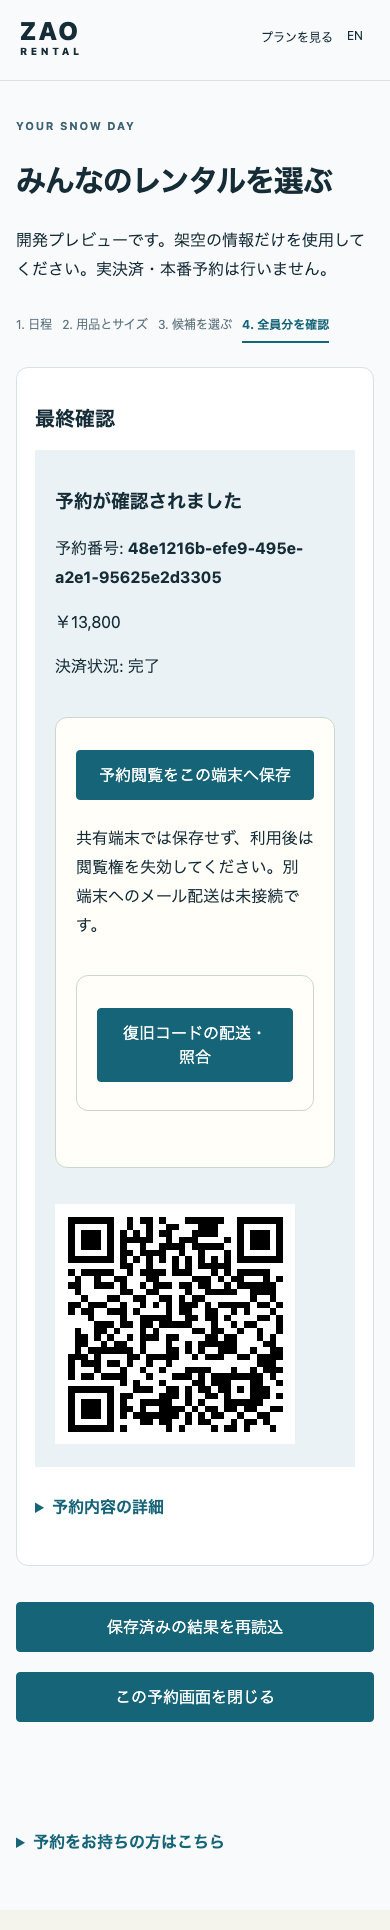
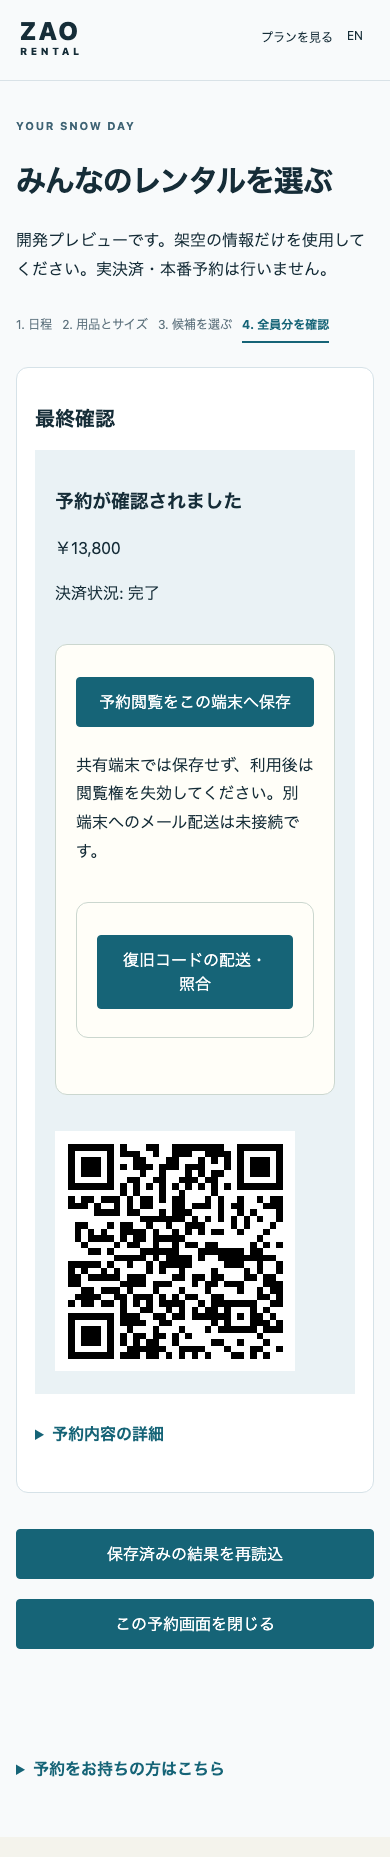
fix(guest-ui): correction batch for TD REQUEST_CHANGES on customer simplification
Addresses PR #26 comment 5746531522 (HIGH 1, MEDIUM 2, LOW 1) against e8241e4:

- UX3R-01 (HIGH): split the unsaved-input guard signal (unsavedInput, used by
  guardNav/beforeunload) from the visible-banner presentation state
  (showUnsavedHint), so entering data and advancing a wizard step no longer
  silently disables navigation/reload protection. Adds a regression test
  covering guarded nav right after a step transition and after backToStep(0).
- UX3R-02 (MEDIUM): move the full booking UUID out of the primary confirmed
  result and into the existing secondary review-details disclosure. UUID/QR
  semantics unchanged.
- UX4R-01 (MEDIUM): make the Regular/Premium comparison the first substantive
  content on /rental (compact hero, no mountain illustration on this route)
  and demote the equipment-category EXPLORE grid into a collapsed <details>.
- UX3R-03 (LOW): give /reservation the same locale-switch link and footer
  composition as the normal public shell.

No pricing/recommendation/inventory/HOLD/payment/auth/schema changes.

diff --git a/apps/web/src/components/GuestBooking.tsx b/apps/web/src/components/GuestBooking.tsx
@@ -111,7 +111,14 @@ export function GuestBooking({locale}:{locale:Locale}){const ja=locale==='ja',t=
  // server; the member data contract is unchanged.
  const [activePerson,setActivePerson]=useState(0);
  const activePersonIdx=Math.min(activePerson,input.members.length-1);
- const dirty=touched&&step<2&&JSON.stringify(input)!==(savedInputJson??JSON.stringify(blankInput()));
+ // UX3R-01: keep the authoritative "would a nav/close actually lose data" signal completely
+ // separate from step-touched presentation state. unsavedInput alone drives guardNav/beforeunload
+ // and must stay true across a step transition -- entering dates on step 0 and immediately
+ // advancing to step 1 without saving is still real unsaved input. touched (reset on every step
+ // change) only controls whether the visible banner is shown; it must never gate the actual
+ // protection below.
+ const unsavedInput=step<2&&JSON.stringify(input)!==(savedInputJson??JSON.stringify(blankInput()));
+ const showUnsavedHint=touched&&unsavedInput;
  // UIR-03 defense in depth: even if some other path ever let step 3 render with data that no
  // longer matches what the server actually holds for this draft, checkout must still refuse
  // to submit the old server contract as if it reflected newer, unsaved local choices.
@@ -197,15 +204,15 @@ export function GuestBooking({locale}:{locale:Locale}){const ja=locale==='ja',t=
  // mobile), so this is a best-effort browser-native prompt for a real tab close/reload, not
  // a substitute for the in-app link guard below, which is the actual mechanism for the
  // cases this app controls (locale switch, closing the booking context).
- useEffect(()=>{const onBeforeUnload=(e:BeforeUnloadEvent)=>{if(dirty){e.preventDefault();e.returnValue='';}};window.addEventListener('beforeunload',onBeforeUnload);return()=>window.removeEventListener('beforeunload',onBeforeUnload);},[dirty]);
- function guardNav(e:React.MouseEvent){if(dirty&&!window.confirm(t('保存されていない入力があります。移動すると内容が失われます。続けますか？','You have unsaved input. Leaving now will lose it. Continue?')))e.preventDefault();}
+ useEffect(()=>{const onBeforeUnload=(e:BeforeUnloadEvent)=>{if(unsavedInput){e.preventDefault();e.returnValue='';}};window.addEventListener('beforeunload',onBeforeUnload);return()=>window.removeEventListener('beforeunload',onBeforeUnload);},[unsavedInput]);
+ function guardNav(e:React.MouseEvent){if(unsavedInput&&!window.confirm(t('保存されていない入力があります。移動すると内容が失われます。続けますか？','You have unsaved input. Leaving now will lose it. Continue?')))e.preventDefault();}
  async function run(fn:()=>Promise<Draft>){if(inFlight.current)return;inFlight.current=true;setBusy(true);const n=++ticket.current;try{const d=await fn();if(alive.current&&n===ticket.current){open(d);setMessage('');}}catch(e){if(alive.current&&n===ticket.current){if((e as {status?:number}).status===401){setDraft(null);setInput(blankInput());setDirections({});clearStoredInput();setSavedInputJson(null);}setMessage((e as Error).message);}}finally{inFlight.current=false;if(alive.current)setBusy(false);}}
  function member(n:number,patch:Partial<Member>){editInput(i=>({...i,members:i.members.map((m,j)=>j===n?{...m,...patch}:m)}));}
  function sport(n:number,s:string){member(n,{sport:s,tier:s==='WEAR'?'STANDARD':'REGULAR',ski:s==='SKI'?{weightKg:60,ageAtStart:30,level:'BEGINNER'}:null,heightCm:s==='WEAR'?null:170,footCm:s==='WEAR'?null:25.5,poleSize:null,premiumModel:null,jacketSize:null,pantsSize:null,wearSport:s==='WEAR'?'SKI':null});}
  const sizes=(m:Member,f:string)=>options.sizes.filter(v=>v.family===f&&v.age===(m.adultAtStart?'ADULT':'KIDS')&&v.tier===(f.startsWith('WEAR_')?'STANDARD':m.tier));
  const money=(n:unknown)=>typeof n==='number'?new Intl.NumberFormat(locale==='ja'?'ja-JP':'en-JP',{style:'currency',currency:'JPY',maximumFractionDigits:0}).format(n):'—';const errorText=(code:string)=>{const c=GUEST_ERROR_COPY[code];if(c)return ja?c.ja:c.en;return ja?'処理でエラーが発生しました。もう一度お試しください。':'Something went wrong. Please try again.';};const bookingStateText=(s:string)=>{const c=BOOKING_STATE_COPY[s];return c?(ja?c.ja:c.en):s;};const paymentStateText=(s:string)=>{const c=PAYMENT_STATE_COPY[s];return c?(ja?c.ja:c.en):s;};const jstTime=(iso:string)=>{const d=new Date(iso);if(Number.isNaN(d.getTime()))return iso;return new Intl.DateTimeFormat(locale==='ja'?'ja-JP':'en-JP',{timeZone:'Asia/Tokyo',dateStyle:'medium',timeStyle:'short'}).format(d)+' JST';};const storeLabel=(v:string)=>STORE_LABEL[v]??v;const slotLabel=(v:string)=>SLOT_OPTIONS.find(([k])=>k===v)?.[1]??v;const sportLabel=(s:string)=>s==='SKI'?t('スキーセット','Ski set'):s==='SNOWBOARD'?t('スノーボードセット','Snowboard set'):s==='WEAR'?t('ウェアのみ','Wear only'):s;const tierLabel=(tr:string)=>tr==='REGULAR'?'Regular':tr==='PREMIUM'?'Premium':tr==='STANDARD'?t('スタンダード','Standard'):tr;
  return <div className="public-shell" lang={locale}><header className="public-header"><Link className="wordmark" href={'/'+locale} onClick={guardNav}>ZAO<span>RENTAL</span></Link><nav aria-label={t('メインナビゲーション','Main navigation')}><Link href={'/'+locale+'/rental'} onClick={guardNav}>{t('プランを見る','View plans')}</Link><Link href={'/'+(ja?'en':'ja')+'/book'} hrefLang={ja?'en':'ja'} onClick={guardNav}>{t('EN','日本語')}</Link></nav></header><main className="guest-main"><p className="public-kicker">YOUR SNOW DAY</p><h1>{t('みんなのレンタルを選ぶ','Plan the group’s rental')}</h1><p>{t('開発プレビューです。架空の情報だけを使用してください。実決済・本番予約は行いません。','Development preview: use synthetic details only. No real payment or production booking.')}</p><ol className="guest-steps" aria-label={t('予約の流れ','Booking steps')}>{[t('日程','Dates'),t('用品とサイズ','Equipment'),t('候補を選ぶ','Choose sizes'),t('全員分を確認','Review group')].map((s,n)=><li key={s} aria-current={step===n?'step':undefined}>{n+1}. {s}</li>)}</ol>
- {dirty&&<p role="status">{t('保存されていない変更があります。移動すると失われます。','You have unsaved changes. Leaving now will lose them.')}</p>}
+ {showUnsavedHint&&<p role="status">{t('保存されていない変更があります。移動すると失われます。','You have unsaved changes. Leaving now will lose them.')}</p>}
  {message&&<p role="alert" className="guest-alert">{errorText(message)}</p>}
  {!draft&&<p role="status">{t('予約用の画面を開いています…','Opening your booking workspace…')}</p>}
  {draft&&<>{step<3&&<fieldset disabled={busy||draft.locked}><legend>{step===0?t('日程・店舗','Dates & stores'):step===1?t('一人ずつ選択','Choose for each person'):t('保存済みの条件','Saved conditions')}</legend>
@@ -222,8 +229,8 @@ export function GuestBooking({locale}:{locale:Locale}){const ja=locale==='ja',t=
  {step===2&&!draft.preview&&<p>{t('候補の内容を読み込めませんでした。前の画面からやり直してください。','The candidates could not be loaded. Go back and try again.')}</p>}
  </fieldset>}
  {step===3&&<section className="guest-review" aria-label={t('全員分の確認','Group review')}><h2>{t('最終確認','Final review')}</h2>
- {draft.booking&&<div role="status" className="guest-result"><h3>{bookingStateText(draft.booking.state)}</h3><p>{t('予約番号','Booking reference')}: <strong>{draft.booking.id}</strong></p><p>{money(draft.booking.priceSnapshot.totalJpy)}</p>{draft.booking.payments.map((p,n)=><p key={n}>{t('決済状況','Payment status')}: {paymentStateText(p.state)}</p>)}{draft.booking.state==='CONFIRMED_DEV'&&<SaveBookingAccess bookingId={draft.booking.id} locale={locale}/>}{draft.booking.qrImage&&<picture><img src={draft.booking.qrImage} width={240} height={240} alt={t('開発予約QR','Development booking QR')}/></picture>}{draft.booking.state!=='CONFIRMED_DEV'&&<button disabled={busy} onClick={()=>void run(()=>request('/reconcile',{}))}>{t('決済状況を更新','Check for a payment update')}</button>}</div>}
- {(()=>{const body=<>{!draft.locked&&<button disabled={busy} onClick={()=>backToStep(1)}>{t('条件を編集して再計算','Edit and recalculate')}</button>}<p>{input.period.startDate} → {input.period.endDate} · {slotLabel(input.period.slot)}</p><p>{storeLabel(input.pickupStore)} → {storeLabel(input.returnStore)}</p>{input.members.map((m,n)=><article key={m.key}><h3>{t('利用者','Person')} {n+1} · {sportLabel(m.sport)} · {tierLabel(m.tier)}</h3><p>{draft.preview?.members[n]?.candidates[directions[m.key]??'']?.lengthCm||'—'} cm · {options.models.find(p=>p.key===m.premiumModel)?.name??t('モデル非指定','No specific model')} · {(()=>{const jacket=options.sizes.find(v=>v.key===m.jacketSize)?.label,pants=options.sizes.find(v=>v.key===m.pantsSize)?.label;return jacket||pants?[jacket,pants].filter(Boolean).join(' / '):t('ウェアの選択なし','No wear selected');})()}</p></article>)}<p>{t('見積は最終確定額ではありません。','This estimate is not the final charge.')}</p><small className="guest-note">{t('税区分・利用規約は公開前確認中です。','Tax display and terms of use remain under review before launch.')}</small>
+ {draft.booking&&<div role="status" className="guest-result"><h3>{bookingStateText(draft.booking.state)}</h3><p>{money(draft.booking.priceSnapshot.totalJpy)}</p>{draft.booking.payments.map((p,n)=><p key={n}>{t('決済状況','Payment status')}: {paymentStateText(p.state)}</p>)}{draft.booking.state==='CONFIRMED_DEV'&&<SaveBookingAccess bookingId={draft.booking.id} locale={locale}/>}{draft.booking.qrImage&&<picture><img src={draft.booking.qrImage} width={240} height={240} alt={t('開発予約QR','Development booking QR')}/></picture>}{draft.booking.state!=='CONFIRMED_DEV'&&<button disabled={busy} onClick={()=>void run(()=>request('/reconcile',{}))}>{t('決済状況を更新','Check for a payment update')}</button>}</div>}
+ {(()=>{const body=<>{!draft.locked&&<button disabled={busy} onClick={()=>backToStep(1)}>{t('条件を編集して再計算','Edit and recalculate')}</button>}{draft.booking&&<p>{t('予約番号','Booking reference')}: <strong>{draft.booking.id}</strong></p>}<p>{input.period.startDate} → {input.period.endDate} · {slotLabel(input.period.slot)}</p><p>{storeLabel(input.pickupStore)} → {storeLabel(input.returnStore)}</p>{input.members.map((m,n)=><article key={m.key}><h3>{t('利用者','Person')} {n+1} · {sportLabel(m.sport)} · {tierLabel(m.tier)}</h3><p>{draft.preview?.members[n]?.candidates[directions[m.key]??'']?.lengthCm||'—'} cm · {options.models.find(p=>p.key===m.premiumModel)?.name??t('モデル非指定','No specific model')} · {(()=>{const jacket=options.sizes.find(v=>v.key===m.jacketSize)?.label,pants=options.sizes.find(v=>v.key===m.pantsSize)?.label;return jacket||pants?[jacket,pants].filter(Boolean).join(' / '):t('ウェアの選択なし','No wear selected');})()}</p></article>)}<p>{t('見積は最終確定額ではありません。','This estimate is not the final charge.')}</p><small className="guest-note">{t('税区分・利用規約は公開前確認中です。','Tax display and terms of use remain under review before launch.')}</small>
  {draft.estimate&&<dl className="guest-price"><dt>{t('小計','Subtotal')}</dt><dd>{money(draft.estimate.subtotalJpy)}</dd>{Boolean(draft.estimate.bundleDiscountJpy)&&<><dt>{t('ウェア調整','Wear adjustment')}</dt><dd>{money(draft.estimate.bundleDiscountJpy)}</dd></>}{Boolean(draft.estimate.advanceDiscountJpy)&&<><dt>{t('事前決済調整（見込み）','Estimated advance adjustment')}</dt><dd>{money(draft.estimate.advanceDiscountJpy)}</dd></>}<dt>{t('全員分の参考総額','Group estimate')}</dt><dd><strong>{money(draft.estimate.totalJpy)}</strong></dd></dl>}
  <label>{t('お名前（架空）','Name (synthetic)')}<input value={contact.displayName} disabled={busy||draft.locked} onChange={e=>setContact(c=>({...c,displayName:e.target.value}))}/></label><label>{t('メール（架空）','Email (synthetic)')}<input value={contact.email} disabled={busy||draft.locked} onChange={e=>setContact(c=>({...c,email:e.target.value}))}/></label><label className="guest-choice"><input type="checkbox" checked={contact.termsAccepted} disabled={busy||draft.locked} onChange={e=>setContact(c=>({...c,termsAccepted:e.target.checked}))}/>{t('合成データによる開発確認であることを確認','I understand this is a synthetic development preview')}</label>
  {!draft.booking&&<button className="guest-cta-sticky" aria-busy={busy} disabled={busy||!contact.termsAccepted||!simulation||!contractSynced} onClick={()=>void run(()=>request('/checkout',{locale,draftId:draft.id,expectedRevision:draft.revision,reviewHash:draft.reviewHash,contact:{displayName:contact.displayName,email:contact.email,termsAccepted:contact.termsAccepted}}))}>{busy?t('処理しています…','Working…'):draft.locked?t('同じ内容で予約確定を再送信','Resend the same booking confirmation'):t('この内容で予約を確定する（開発用決済）','Confirm this booking (test payment)')}</button>}{!contractSynced&&<p role="status">{t('内容が変更されています。前の画面からもう一度選択し直し、最新の内容で確認してください。','Your selections changed. Go back and choose again so the review matches your latest choices.')}</p>}{busy&&<p role="status">{t('処理中です。しばらくそのままお待ちください。','Working. Please wait, do not press again.')}</p>}{!simulation&&<p>{t('この環境では決済接続が未設定です。','Payment is not connected in this environment.')}</p>}

diff --git a/apps/web/src/components/public.css b/apps/web/src/components/public.css
@@ -1,2 +1,4 @@
-.public-shell{background:#f8fafb;color:#162d38;min-height:100vh;font-size:16px}.public-shell a{border:0;border-radius:0}.public-header{max-width:1240px;margin:auto;padding:22px 32px;display:flex;justify-content:space-between;align-items:center;gap:16px;border-bottom:1px solid #d9e2e7}.public-header .wordmark{padding:0;font-size:25px;font-weight:850;letter-spacing:.1em}.wordmark span{display:block;font-size:10px;letter-spacing:.35em}.public-header nav{gap:4px;align-items:center}.public-header nav a{font-size:14px;min-height:48px}.public-main{max-width:1240px;padding:54px 32px;margin:auto}.public-kicker{font-size:11px;letter-spacing:.16em;font-weight:700;color:#406475}.public-hero{display:grid;grid-template-columns:1.15fr 1fr;align-items:center;gap:48px}.public-main h1{font-size:clamp(32px,4.5vw,58px);line-height:1.3;max-width:15ch;margin:24px 0;letter-spacing:-.035em}.public-lead{max-width:550px;line-height:1.9;color:#445d68}.public-shell .public-cta{background:#166477;color:white;display:inline-flex;gap:45px;padding:16px 22px;border-radius:4px;font-weight:650;min-height:52px}.public-cta:hover{background:#104f60}.public-mountain{min-height:350px;aspect-ratio:1.15;background:linear-gradient(150deg,transparent 45%,#b8cdd4 45%,#e1ebef 72%,transparent 72%),linear-gradient(33deg,#d7e4e9 46%,#eef4f6 46%,#dfeaf0 80%);position:relative;border-radius:2px;overflow:hidden;display:flex;flex-direction:column;justify-content:space-between;padding:28px}.public-mountain span{writing-mode:vertical-rl;font-size:44px;letter-spacing:.2em;font-weight:250}.public-mountain small{font-size:9px;letter-spacing:.2em}.public-preview-note{font-size:12px;color:#607884;margin-top:32px}.public-main section{border:0;border-radius:0;padding:36px 0;margin:40px 0;background:transparent;border-top:1px solid #d9e2e7}.public-detail{max-width:760px;line-height:1.85}.public-detail h2{font-size:24px}.public-detail li{padding:7px 0}.public-detail aside{background:#eaf1f3;padding:24px;margin-top:24px;border-left:3px solid #166477}.public-detail small{color:#536b78}.public-compare-grid{display:grid;grid-template-columns:1fr 1fr;gap:18px;margin-top:20px}.public-shell .public-compare-grid article{background:#eff5f7;padding:22px;border:0}.public-compare-grid h3{font-size:21px;margin:0 0 8px}.public-compare-grid p{color:#445d68;margin:0}.public-explore h2{font-size:28px;max-width:720px}.public-card-grid{display:grid;grid-template-columns:repeat(2,minmax(0,1fr));gap:18px;margin-top:28px}.public-shell .public-card{background:white;padding:28px;border:1px solid #dce5ea;position:relative;min-width:0}.public-card span{font-size:11px;color:#397080;letter-spacing:.15em}.public-card h3{font-size:23px;margin:20px 0 12px}.public-card p{color:#516875;font-size:14px;padding-right:24px}.public-card b{position:absolute;bottom:24px;right:24px;font-size:25px}.public-links{border-top:1px solid #dce5ea;padding-top:24px;gap:4px}.public-links a{font-size:14px;min-height:48px}.public-footer{background:#152f3a;color:#ecf3f5;padding:38px max(24px,calc((100vw - 1176px)/2));margin:0;font-size:13px}.public-footer a{color:#ecf3f5;padding-left:0}.public-shell button,.public-shell input,.public-shell select{font:inherit;min-height:48px}.public-shell :focus-visible{outline:3px solid #24899e;outline-offset:3px}@media(max-width:760px){.public-header{padding:16px 20px;align-items:flex-start}.public-header nav{justify-content:flex-end;gap:0}.public-header nav a{font-size:12px;padding:12px 7px}.public-main{padding:32px 20px}.public-hero{grid-template-columns:1fr;gap:30px}.public-main h1{max-width:17ch}.public-mountain{min-height:220px;aspect-ratio:1.8}.public-card-grid{grid-template-columns:1fr}.public-card h3{font-size:21px}.public-detail{max-width:100%}.public-links a{padding:10px 7px}.public-explore h2{font-size:24px}.public-compare-grid{grid-template-columns:1fr}}
+.public-shell{background:#f8fafb;color:#162d38;min-height:100vh;font-size:16px}.public-shell a{border:0;border-radius:0}.public-header{max-width:1240px;margin:auto;padding:22px 32px;display:flex;justify-content:space-between;align-items:center;gap:16px;border-bottom:1px solid #d9e2e7}.public-header .wordmark{padding:0;font-size:25px;font-weight:850;letter-spacing:.1em}.wordmark span{display:block;font-size:10px;letter-spacing:.35em}.public-header nav{gap:4px;align-items:center}.public-header nav a{font-size:14px;min-height:48px}.public-main{max-width:1240px;padding:54px 32px;margin:auto}.public-kicker{font-size:11px;letter-spacing:.16em;font-weight:700;color:#406475}.public-hero{display:grid;grid-template-columns:1.15fr 1fr;align-items:center;gap:48px}.public-main h1{font-size:clamp(32px,4.5vw,58px);line-height:1.3;max-width:15ch;margin:24px 0;letter-spacing:-.035em}.public-lead{max-width:550px;line-height:1.9;color:#445d68}.public-shell .public-cta{background:#166477;color:white;display:inline-flex;gap:45px;padding:16px 22px;border-radius:4px;font-weight:650;min-height:52px}.public-cta:hover{background:#104f60}.public-mountain{min-height:350px;aspect-ratio:1.15;background:linear-gradient(150deg,transparent 45%,#b8cdd4 45%,#e1ebef 72%,transparent 72%),linear-gradient(33deg,#d7e4e9 46%,#eef4f6 46%,#dfeaf0 80%);position:relative;border-radius:2px;overflow:hidden;display:flex;flex-direction:column;justify-content:space-between;padding:28px}.public-mountain span{writing-mode:vertical-rl;font-size:44px;letter-spacing:.2em;font-weight:250}.public-mountain small{font-size:9px;letter-spacing:.2em}.public-preview-note{font-size:12px;color:#607884;margin-top:32px}.public-main section{border:0;border-radius:0;padding:36px 0;margin:40px 0;background:transparent;border-top:1px solid #d9e2e7}.public-detail{max-width:760px;line-height:1.85}.public-detail h2{font-size:24px}.public-detail li{padding:7px 0}.public-detail aside{background:#eaf1f3;padding:24px;margin-top:24px;border-left:3px solid #166477}.public-detail small{color:#536b78}.public-hero--compact{grid-template-columns:1fr}.public-hero--compact .public-lead{max-width:none}
+.public-compare-grid{display:grid;grid-template-columns:1fr 1fr;gap:18px;margin-top:20px}.public-shell .public-compare-grid article{background:#eff5f7;padding:22px;border:0}.public-compare-grid h3{font-size:21px;margin:0 0 8px}.public-compare-grid p{color:#445d68;margin:0}.public-explore h2{font-size:28px;max-width:720px}
+details.public-secondary{border:0;background:transparent}details.public-secondary>summary{cursor:pointer;font-weight:650;color:#166477;font-size:15px;padding:0 0 16px;list-style:none}details.public-secondary>summary::-webkit-details-marker{display:none}.public-card-grid{display:grid;grid-template-columns:repeat(2,minmax(0,1fr));gap:18px;margin-top:28px}.public-shell .public-card{background:white;padding:28px;border:1px solid #dce5ea;position:relative;min-width:0}.public-card span{font-size:11px;color:#397080;letter-spacing:.15em}.public-card h3{font-size:23px;margin:20px 0 12px}.public-card p{color:#516875;font-size:14px;padding-right:24px}.public-card b{position:absolute;bottom:24px;right:24px;font-size:25px}.public-links{border-top:1px solid #dce5ea;padding-top:24px;gap:4px}.public-links a{font-size:14px;min-height:48px}.public-footer{background:#152f3a;color:#ecf3f5;padding:38px max(24px,calc((100vw - 1176px)/2));margin:0;font-size:13px}.public-footer a{color:#ecf3f5;padding-left:0}.public-shell button,.public-shell input,.public-shell select{font:inherit;min-height:48px}.public-shell :focus-visible{outline:3px solid #24899e;outline-offset:3px}@media(max-width:760px){.public-header{padding:16px 20px;align-items:flex-start}.public-header nav{justify-content:flex-end;gap:0}.public-header nav a{font-size:12px;padding:12px 7px}.public-main{padding:32px 20px}.public-hero{grid-template-columns:1fr;gap:30px}.public-main h1{max-width:17ch}.public-mountain{min-height:220px;aspect-ratio:1.8}.public-card-grid{grid-template-columns:1fr}.public-card h3{font-size:21px}.public-detail{max-width:100%}.public-links a{padding:10px 7px}.public-explore h2{font-size:24px}.public-compare-grid{grid-template-columns:1fr}}
 .public-hero>*{min-width:0}.public-mountain{width:100%}@media(max-width:760px){.public-mountain{aspect-ratio:auto;height:220px}}

diff --git a/apps/web/src/components/PublicPage.tsx b/apps/web/src/components/PublicPage.tsx
@@ -1,12 +1,18 @@
 import Link from 'next/link';
 import {canonicalPath,publicPages,pageSchema,safeJsonLd,type Locale} from '../../../../packages/core/src/content/public-pages';
 import './public.css';
-export function PublicPage({page,locale,origin,latePickup,models=[]}:{latePickup:string;models?:{slug:string;name:string;season:string}[];page:typeof publicPages[number];locale:Locale;origin:string}){const ja=locale==='ja',path=page.path;return <div className="public-shell" lang={locale}><header className="public-header"><Link className="wordmark" href={'/'+locale}>ZAO<span>RENTAL</span></Link><nav aria-label={ja?'メインナビゲーション':'Main navigation'}><Link href={'/'+locale+'/rental'}>{ja?'道具とウェア':'Equipment & wear'}</Link><Link href={'/'+locale+'/pickup-return'}>{ja?'受取・返却':'Pickup & return'}</Link><Link href={canonicalPath(ja?'en':'ja',path)} hrefLang={ja?'en':'ja'}>{ja?'EN':'日本語'}</Link></nav></header>
- <main className="public-main"><p className="public-kicker">ZAO · SKI / SNOWBOARD / WEAR</p><div className="public-hero"><div><h1>{page.heading}</h1><p className="public-lead">{page.summary}</p><Link className="public-cta" href={'/'+locale+'/book'}>{ja?'日程から選ぶ':'Start with dates'} <span aria-hidden>↗</span></Link></div><div className="public-mountain" aria-hidden="true"><span>蔵王</span><small>CHOOSE YOUR NEXT SNOW DAY</small></div></div>
+export function PublicPage({page,locale,origin,latePickup,models=[]}:{latePickup:string;models?:{slug:string;name:string;season:string}[];page:typeof publicPages[number];locale:Locale;origin:string}){const ja=locale==='ja',path=page.path,isRentalHub=path==='rental';
+ // UX4R-01: on the /rental hub, Regular vs Premium must be the first substantive content --
+ // not the generic landing hero/detail/explore composition with a comparison inserted into it.
+ const compare=<section className="public-compare"><h2>{ja?'Regular と Premium':'Regular and Premium'}</h2><div className="public-compare-grid"><article><h3>Regular</h3><p>{ja?'サイズ・年齢区分・クラスから選びます。モデルの確約はありません。':'Choose by size, age category and class. No specific model is promised.'}</p></article><article><h3>Premium</h3><p>{ja?'モデル・シーズン・長さを選択条件として保存します。':'Your selected model, season and length become the promise.'}</p></article></div></section>;
+ const cards=<div className="public-card-grid">{publicPages.filter(p=>p.locale===locale&&['rental/ski','rental/snowboard','rental/wear','rental/premium'].includes(p.path)).map(p=><Link className="public-card" key={p.path} href={canonicalPath(locale,p.path)}><span>{p.path.split('/')[1]?.toUpperCase()}</span><h3>{p.heading}</h3><p>{p.summary}</p><b aria-hidden>↗</b></Link>)}</div>;
+ const explore=isRentalHub?<details className="public-explore public-secondary"><summary>{ja?'用品カテゴリから選ぶ':'Browse by equipment category'}</summary>{cards}</details>:<section className="public-explore"><div><p className="public-kicker">EXPLORE</p><h2>{ja?'一人ずつ選ぶ。みんなで楽しむ。':'Individual choices. One group.'}</h2></div>{cards}</section>;
+ return <div className="public-shell" lang={locale}><header className="public-header"><Link className="wordmark" href={'/'+locale}>ZAO<span>RENTAL</span></Link><nav aria-label={ja?'メインナビゲーション':'Main navigation'}><Link href={'/'+locale+'/rental'}>{ja?'道具とウェア':'Equipment & wear'}</Link><Link href={'/'+locale+'/pickup-return'}>{ja?'受取・返却':'Pickup & return'}</Link><Link href={canonicalPath(ja?'en':'ja',path)} hrefLang={ja?'en':'ja'}>{ja?'EN':'日本語'}</Link></nav></header>
+ <main className="public-main"><p className="public-kicker">ZAO · SKI / SNOWBOARD / WEAR</p><div className={'public-hero'+(isRentalHub?' public-hero--compact':'')}><div><h1>{page.heading}</h1><p className="public-lead">{page.summary}</p><Link className="public-cta" href={'/'+locale+'/book'}>{ja?'日程から選ぶ':'Start with dates'} <span aria-hidden>↗</span></Link></div>{!isRentalHub&&<div className="public-mountain" aria-hidden="true"><span>蔵王</span><small>CHOOSE YOUR NEXT SNOW DAY</small></div>}</div>
  <p className="public-preview-note">{ja?'予約受付前の開発プレビューです。実決済・本番予約は行いません。':'Development preview before booking launch. No real payment or production booking.'}</p>
+ {isRentalHub&&compare}
  <section className="public-detail"><h2>{page.title}</h2><ul>{page.bullets.map(b=><li key={b}>{b}</li>)}</ul>{['pickup-return','faq'].includes(path)&&<aside><h3>{ja?'複数日予約の後日受取':'Late collection for multi-day bookings'}</h3><p>{latePickup}</p><small>{ja?'公開文言・利用規約は公開前確認中です。':'Public wording and terms remain subject to review.'}</small></aside>}</section>
- {path==='rental'&&<section className="public-compare"><h2>{ja?'Regular と Premium':'Regular and Premium'}</h2><div className="public-compare-grid"><article><h3>Regular</h3><p>{ja?'サイズ・年齢区分・クラスから選びます。モデルの確約はありません。':'Choose by size, age category and class. No specific model is promised.'}</p></article><article><h3>Premium</h3><p>{ja?'モデル・シーズン・長さを選択条件として保存します。':'Your selected model, season and length become the promise.'}</p></article></div></section>}
- <section className="public-explore"><div><p className="public-kicker">EXPLORE</p><h2>{ja?'一人ずつ選ぶ。みんなで楽しむ。':'Individual choices. One group.'}</h2></div><div className="public-card-grid">{publicPages.filter(p=>p.locale===locale&&['rental/ski','rental/snowboard','rental/wear','rental/premium'].includes(p.path)).map(p=><Link className="public-card" key={p.path} href={canonicalPath(locale,p.path)}><span>{p.path.split('/')[1]?.toUpperCase()}</span><h3>{p.heading}</h3><p>{p.summary}</p><b aria-hidden>↗</b></Link>)}</div></section>
+ {explore}
  {path==='rental/premium'&&<section><h2>{ja?'確認済みモデル':'Verified models'}</h2>{models.length?models.map(m=><p key={m.slug}><Link href={canonicalPath(locale,'rental/premium/'+m.slug)}>{m.name} · {m.season}</Link></p>):<p>{ja?'資料・写真・当店取扱の確認が済んだモデルから掲載します。':'Models appear after source, photo rights and shop inventory verification.'}</p>}</section>}
  <nav className="public-links" aria-label={ja?'ご利用ガイド':'Rental guides'}>{publicPages.filter(p=>p.locale===locale&&p.path&&!['rental/ski','rental/snowboard','rental/wear','rental/premium'].includes(p.path)).map(p=><Link key={p.path} href={canonicalPath(locale,p.path)}>{p.title}</Link>)}</nav>
  {pageSchema(locale,path,origin).map((s,i)=><script key={i} type="application/ld+json" dangerouslySetInnerHTML={{__html:safeJsonLd(s)}}/>)}</main><footer className="public-footer"><strong>ZAO RENTAL</strong><p>{ja?'道具選びを済ませて、雪山へ。':'Choose your equipment. Enjoy the mountain.'}</p><Link href="/staff/login">{ja?'スタッフ入口':'Staff access'}</Link></footer></div>;}

diff --git a/tests/public/normal-ui.ts b/tests/public/normal-ui.ts
@@ -58,6 +58,35 @@ try{
   await expect(p.getByText('保存されていない変更があります')).toBeVisible();
   await ctx.close();
  });
+ await check('UX3R-01 regression: hiding the unsaved-changes banner on step arrival must never disable the actual guardNav/beforeunload protection',async()=>{
+  const ctx=await browser.newContext({baseURL:app!.origin,viewport:{width:390,height:844}});ctx.setDefaultTimeout(15000);const p=await ctx.newPage();last=p;
+  await p.goto('/ja/book');await expect(p.getByLabel('利用開始日',{exact:true})).toBeEnabled();
+  await p.getByLabel('利用開始日',{exact:true}).fill('2035-04-01');await p.getByLabel('利用終了日',{exact:true}).fill('2035-04-01');
+  await p.getByRole('button',{name:'用品を選ぶ',exact:true}).click();
+  // Fresh arrival at step 1: the visible banner is hidden (UX-3A), but the entered dates are
+  // still real, unsaved input -- a guarded nav must still prompt, and cancelling it must keep
+  // the user on the same page with that input intact.
+  await expect(p.getByText('保存されていない変更があります')).toHaveCount(0);
+  let dialogSeen=false;
+  p.once('dialog',async d=>{dialogSeen=true;assert.match(d.message(),/保存されていない入力/);await d.dismiss();});
+  await p.getByRole('link',{name:'プランを見る',exact:true}).click();
+  await p.waitForTimeout(300);
+  assert.ok(dialogSeen,'guardNav must still fire even though the visible banner is hidden right after a step transition');
+  await expect(p).toHaveURL(/\/ja\/book$/);
+  await expect(p.getByLabel('用品 1',{exact:true})).toBeVisible();
+  // Editing step 1, then going back to step 0 (another touched-resetting transition), must not
+  // drop protection either -- same guarantee one step earlier in the wizard.
+  await p.getByLabel('ポールのサイズ 1',{exact:true}).selectOption('pole-'+variants.pole);
+  await expect(p.getByText('保存されていない変更があります')).toBeVisible();
+  await p.getByRole('button',{name:'日程に戻る',exact:true}).click();
+  await expect(p.getByText('保存されていない変更があります')).toHaveCount(0);
+  let secondDialogSeen=false;
+  p.once('dialog',async d=>{secondDialogSeen=true;await d.accept();});
+  await p.getByRole('link',{name:'プランを見る',exact:true}).click();
+  await p.waitForURL(/\/ja\/rental$/);
+  assert.ok(secondDialogSeen,'guardNav must still fire after backToStep(0) even though the banner is hidden there too');
+  await ctx.close();
+ });
  await check('UX-4A regression: a second person card starts collapsed, expands on request, and both reach the candidate step',async()=>{
   const ctx=await browser.newContext({baseURL:app!.origin,viewport:{width:390,height:844}});ctx.setDefaultTimeout(15000);const p=await ctx.newPage();last=p;
   await p.goto('/ja/book');await expect(p.getByLabel('利用開始日',{exact:true})).toBeEnabled();

diff --git a/apps/web/src/app/[locale]/reservation/page.tsx b/apps/web/src/app/[locale]/reservation/page.tsx
@@ -5,4 +5,4 @@ import '../../../components/public.css';
 import '../../../components/guest.css';
 export const dynamic='force-dynamic';
 export const metadata={robots:{index:false,follow:false},referrer:'no-referrer' as const};
-export default async function Page({params}:{params:Promise<{locale:string}>}){const {locale}=await params;if(!['ja','en'].includes(locale))notFound();const ja=locale==='ja';return <div className="public-shell" lang={locale}><header className="public-header"><Link className="wordmark" href={'/'+locale}>ZAO<span>RENTAL</span></Link><nav aria-label={ja?'メインナビゲーション':'Main navigation'}><Link href={'/'+locale+'/book'}>{ja?'予約する':'Book now'}</Link></nav></header><main className="guest-main" style={{overflowWrap:'anywhere'}}><ConfirmedBooking locale={locale}/></main></div>;}
+export default async function Page({params}:{params:Promise<{locale:string}>}){const {locale}=await params;if(!['ja','en'].includes(locale))notFound();const ja=locale==='ja';return <div className="public-shell" lang={locale}><header className="public-header"><Link className="wordmark" href={'/'+locale}>ZAO<span>RENTAL</span></Link><nav aria-label={ja?'メインナビゲーション':'Main navigation'}><Link href={'/'+locale+'/book'}>{ja?'予約する':'Book now'}</Link><Link href={'/'+(ja?'en':'ja')+'/reservation'} hrefLang={ja?'en':'ja'}>{ja?'EN':'日本語'}</Link></nav></header><main className="guest-main" style={{overflowWrap:'anywhere'}}><ConfirmedBooking locale={locale}/></main><footer className="public-footer"><strong>ZAO RENTAL</strong><p>{ja?'道具選びを済ませて、雪山へ。':'Choose your equipment. Enjoy the mountain.'}</p><Link href="/staff/login">{ja?'スタッフ入口':'Staff access'}</Link></footer></div>;}
